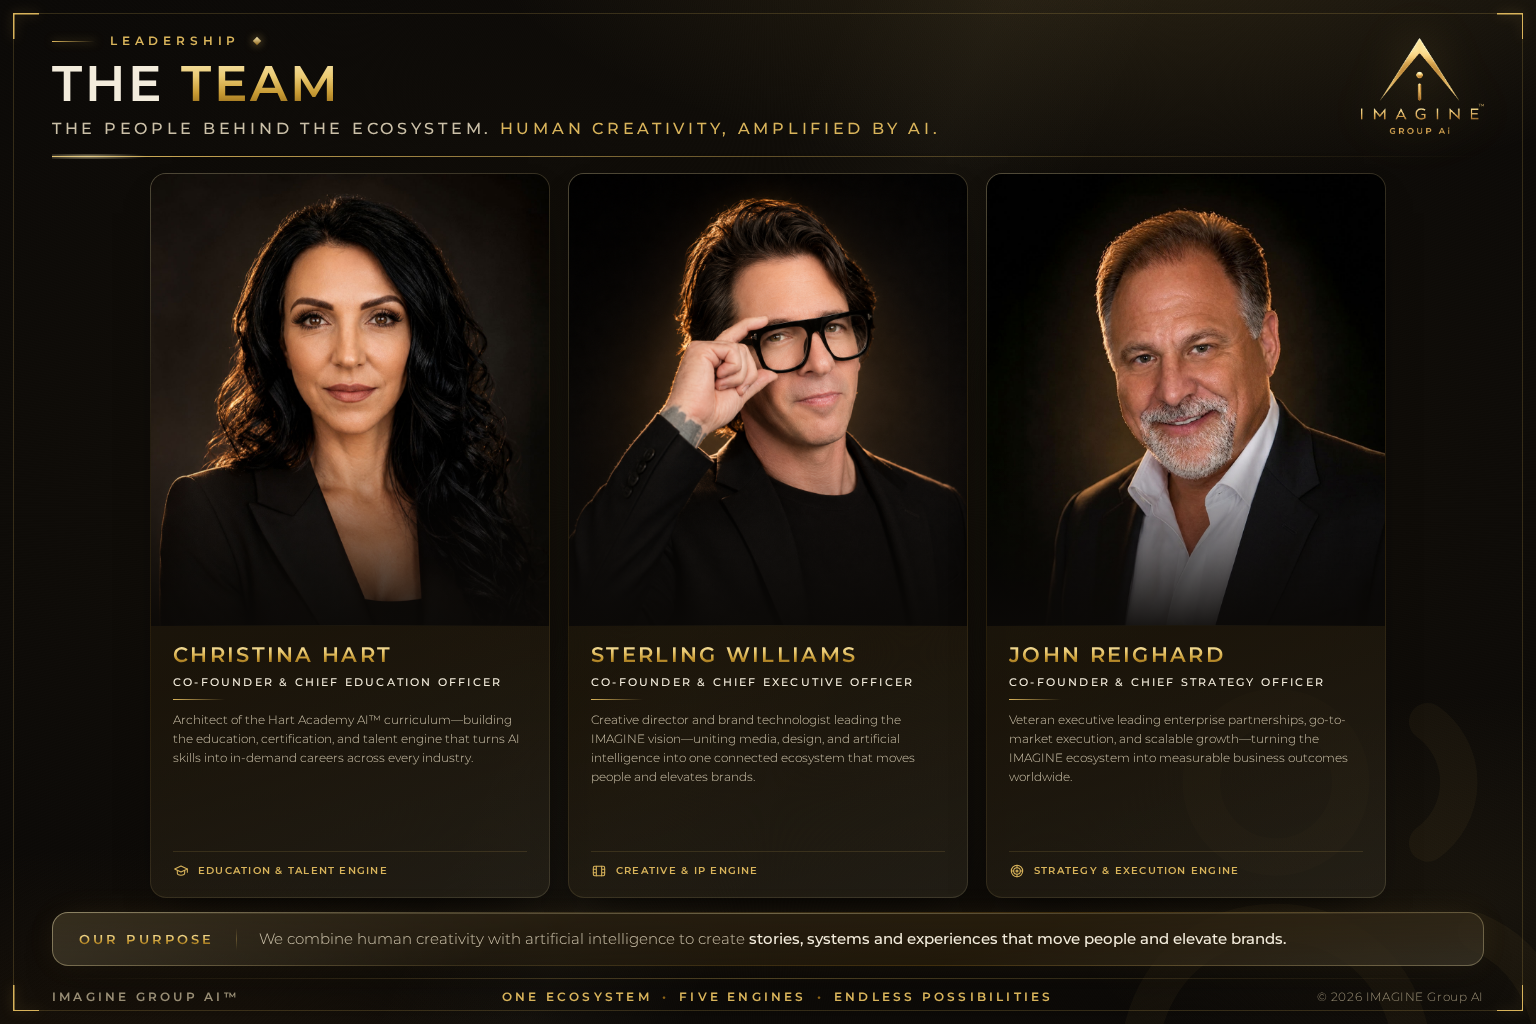
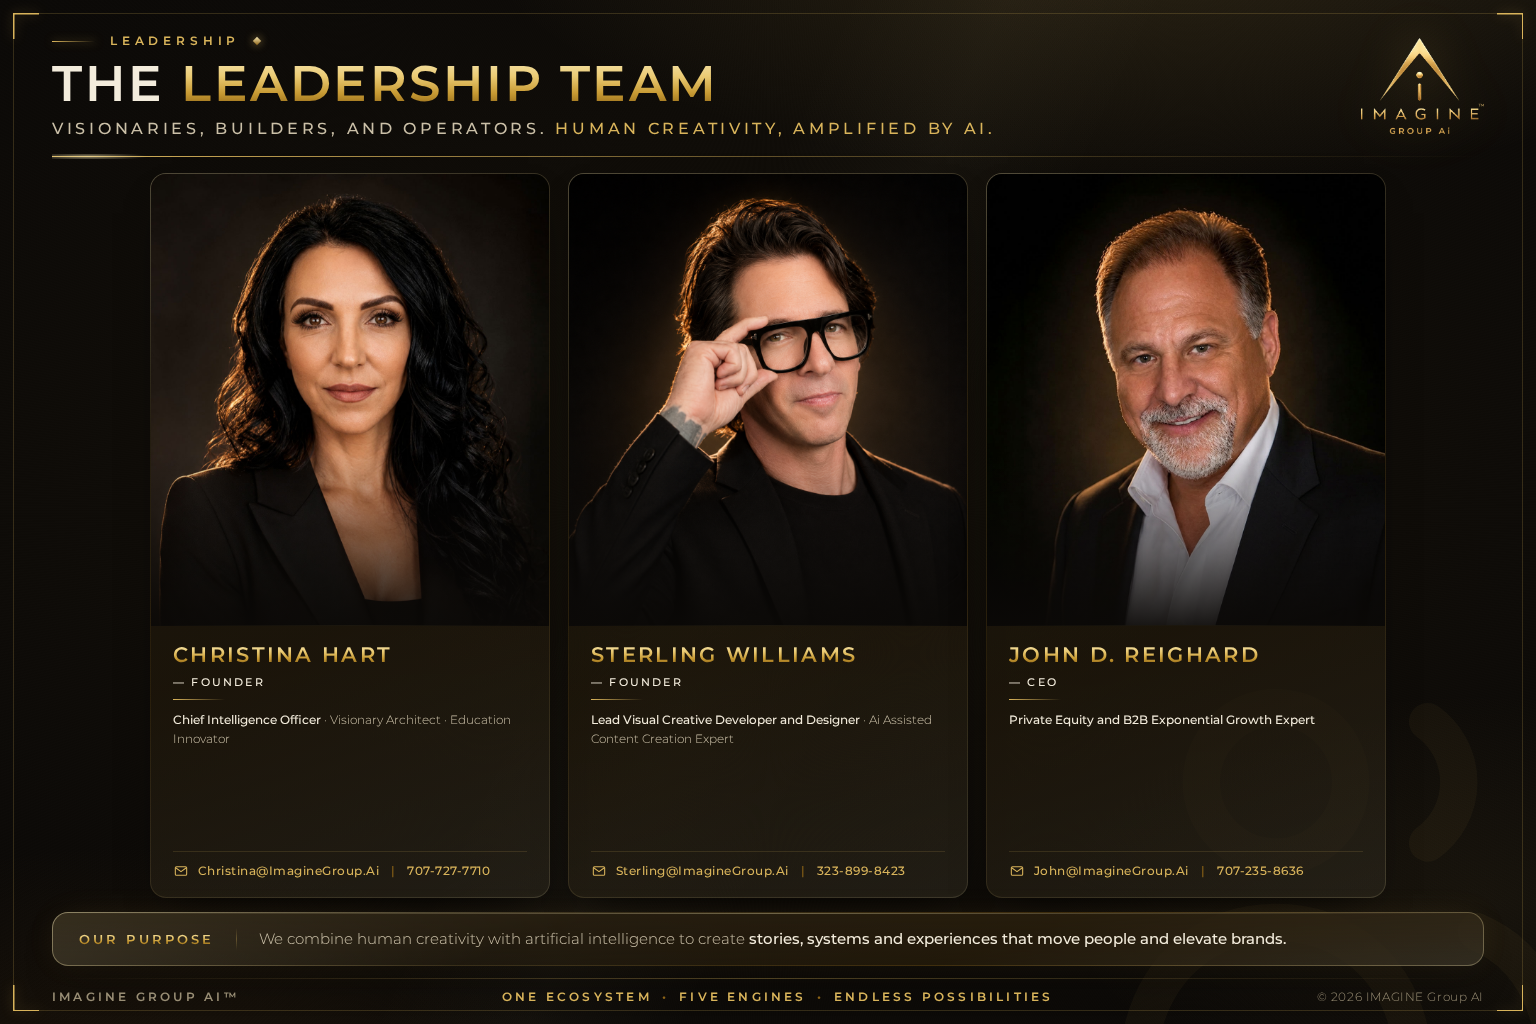
Team page: real titles, descriptors, and contact info from reference image
Christina Hart (Founder), Sterling Williams (Founder), John D. Reighard
(CEO) with emails and phone numbers, applied to both the deck page and
the one-page site; header updated to 'The Leadership Team'.

Claude-Session: https://claude.ai/code/session_01EYoait4sW9uiXTPs3zUfhr

diff --git a/deck/slide-07-the-team.html b/deck/slide-07-the-team.html
@@ -20,8 +20,10 @@ main{ gap:14px; padding-top:16px; }
 .mbio{ font-weight:300; font-size:12.3px; color:var(--cream-dim); line-height:1.55; }
 .mtag{ margin-top:auto; padding-top:11px; border-top:1px solid var(--line-soft);
   display:flex; align-items:center; gap:9px;
-  font-weight:600; font-size:10.3px; letter-spacing:.12em; text-transform:uppercase; color:var(--gold); }
+  font-weight:500; font-size:12px; letter-spacing:.04em; color:var(--gold); }
 .mtag svg{ width:16px; height:16px; flex:0 0 auto; }
+.mtag i{ font-style:normal; color:var(--gold-deep); padding:0 3px; }
+.mbio b{ font-weight:500; color:var(--cream); }
 .purpose{ display:flex; align-items:center; gap:22px; padding:15px 26px; }
 .purpose .lbl{ font-weight:600; font-size:13px; letter-spacing:.24em; text-transform:uppercase; white-space:nowrap; }
 .purpose .sep{ width:1px; align-self:stretch; background:linear-gradient(180deg,transparent,var(--line),transparent); }
@@ -36,8 +38,8 @@ main{ gap:14px; padding-top:16px; }
   <header class="slide">
     <div class="titles">
       <div class="eyebrow">Leadership</div>
-      <h1>The <span class="gtx">Team</span></h1>
-      <div class="kicker">The people behind the ecosystem. <b>Human creativity, amplified by AI.</b></div>
+      <h1>The <span class="gtx">Leadership Team</span></h1>
+      <div class="kicker">Visionaries, Builders, and Operators. <b>Human creativity, amplified by AI.</b></div>
     </div>
     <div class="brandmark"><img src="../IMAGINE-group-ai-logo-Gold-TM-NEW.png" alt="IMAGINE Group AI"></div>
   </header>
@@ -52,12 +54,10 @@ main{ gap:14px; padding-top:16px; }
         </div>
         <div class="minfo">
           <div class="mname gtx">Christina Hart</div>
-          <div class="mrole">Co-Founder &amp; Chief Education Officer</div>
+          <div class="mrole">&mdash; Founder</div>
           <div class="mdiv"></div>
-          <div class="mbio">Architect of the Hart Academy AI&trade; curriculum&mdash;building the education,
-            certification, and talent engine that turns AI skills into in-demand careers across
-            every industry.</div>
-          <div class="mtag"><svg><use href="#i-grad"/></svg>Education &amp; Talent Engine</div>
+          <div class="mbio"><b>Chief Intelligence Officer</b> &middot; Visionary Architect &middot; Education Innovator</div>
+          <div class="mtag"><svg><use href="#i-mail"/></svg>Christina@ImagineGroup.Ai<i>|</i>707-727-7710</div>
         </div>
       </div>
 
@@ -68,12 +68,10 @@ main{ gap:14px; padding-top:16px; }
         </div>
         <div class="minfo">
           <div class="mname gtx">Sterling Williams</div>
-          <div class="mrole">Co-Founder &amp; Chief Executive Officer</div>
+          <div class="mrole">&mdash; Founder</div>
           <div class="mdiv"></div>
-          <div class="mbio">Creative director and brand technologist leading the IMAGINE vision&mdash;uniting
-            media, design, and artificial intelligence into one connected ecosystem that moves people
-            and elevates brands.</div>
-          <div class="mtag"><svg><use href="#i-film"/></svg>Creative &amp; IP Engine</div>
+          <div class="mbio"><b>Lead Visual Creative Developer and Designer</b> &middot; Ai Assisted Content Creation Expert</div>
+          <div class="mtag"><svg><use href="#i-mail"/></svg>Sterling@ImagineGroup.Ai<i>|</i>323-899-8423</div>
         </div>
       </div>
 
@@ -83,13 +81,11 @@ main{ gap:14px; padding-top:16px; }
           <div class="goldline"></div>
         </div>
         <div class="minfo">
-          <div class="mname gtx">John Reighard</div>
-          <div class="mrole">Co-Founder &amp; Chief Strategy Officer</div>
+          <div class="mname gtx">John D. Reighard</div>
+          <div class="mrole">&mdash; CEO</div>
           <div class="mdiv"></div>
-          <div class="mbio">Veteran executive leading enterprise partnerships, go-to-market execution,
-            and scalable growth&mdash;turning the IMAGINE ecosystem into measurable business
-            outcomes worldwide.</div>
-          <div class="mtag"><svg><use href="#i-target"/></svg>Strategy &amp; Execution Engine</div>
+          <div class="mbio"><b>Private Equity and B2B Exponential Growth Expert</b></div>
+          <div class="mtag"><svg><use href="#i-mail"/></svg>John@ImagineGroup.Ai<i>|</i>707-235-8636</div>
         </div>
       </div>
     </div>

diff --git a/deck/imagine-onepage.html b/deck/imagine-onepage.html
@@ -505,41 +505,38 @@ footer .c{font-weight:300;font-size:11.5px;color:var(--muted)}
 <section id="team">
   <div class="sechead rv">
     <div class="eyebrow">Leadership</div>
-    <h2>The <span class="gtx">Team</span></h2>
-    <div class="kick">The people behind the ecosystem. <b>Human creativity, amplified by AI.</b></div>
+    <h2>The <span class="gtx">Leadership Team</span></h2>
+    <div class="kick">Visionaries, Builders, and Operators. <b>Human creativity, amplified by AI.</b></div>
   </div>
   <div class="grid g3">
     <div class="card member rv">
       <div class="photo"><img src="../IMAGINE-Group-Ai-christina-hart.jpg" alt="Christina Hart"></div>
       <div class="info">
         <div class="mname gtx">Christina Hart</div>
-        <div class="mrole">Co-Founder &amp; Chief Education Officer</div>
+        <div class="mrole">&mdash; Founder</div>
         <div class="mdiv"></div>
-        <div class="mbio">Architect of the Hart Academy AI&trade; curriculum&mdash;building the education, certification, and talent engine
-          that turns AI skills into in-demand careers across every industry.</div>
-        <div class="etag" style="justify-content:flex-start"><svg><use href="#i-grad"/></svg>Education &amp; Talent Engine</div>
+        <div class="mbio"><b>Chief Intelligence Officer</b> &middot; Visionary Architect &middot; Education Innovator</div>
+        <div class="etag" style="justify-content:flex-start;text-transform:none;letter-spacing:.04em;font-size:12px;font-weight:500"><svg><use href="#i-mail"/></svg>Christina@ImagineGroup.Ai&nbsp;&nbsp;|&nbsp;&nbsp;707-727-7710</div>
       </div>
     </div>
     <div class="card member rv d1">
       <div class="photo"><img src="../IMAGINE Group Ai Team sterling-williams.png" alt="Sterling Williams"></div>
       <div class="info">
         <div class="mname gtx">Sterling Williams</div>
-        <div class="mrole">Co-Founder &amp; Chief Executive Officer</div>
+        <div class="mrole">&mdash; Founder</div>
         <div class="mdiv"></div>
-        <div class="mbio">Creative director and brand technologist leading the IMAGINE vision&mdash;uniting media, design, and artificial
-          intelligence into one connected ecosystem that moves people and elevates brands.</div>
-        <div class="etag" style="justify-content:flex-start"><svg><use href="#i-film"/></svg>Creative &amp; IP Engine</div>
+        <div class="mbio"><b>Lead Visual Creative Developer and Designer</b> &middot; Ai Assisted Content Creation Expert</div>
+        <div class="etag" style="justify-content:flex-start;text-transform:none;letter-spacing:.04em;font-size:12px;font-weight:500"><svg><use href="#i-mail"/></svg>Sterling@ImagineGroup.Ai&nbsp;&nbsp;|&nbsp;&nbsp;323-899-8423</div>
       </div>
     </div>
     <div class="card member rv d2">
       <div class="photo"><img src="../Joh-Reinguard-linkedin-profile-pic-blk-blazer.jpg" alt="John Reighard"></div>
       <div class="info">
-        <div class="mname gtx">John Reighard</div>
-        <div class="mrole">Co-Founder &amp; Chief Strategy Officer</div>
+        <div class="mname gtx">John D. Reighard</div>
+        <div class="mrole">&mdash; CEO</div>
         <div class="mdiv"></div>
-        <div class="mbio">Veteran executive leading enterprise partnerships, go-to-market execution, and scalable growth&mdash;turning
-          the IMAGINE ecosystem into measurable business outcomes worldwide.</div>
-        <div class="etag" style="justify-content:flex-start"><svg><use href="#i-target"/></svg>Strategy &amp; Execution Engine</div>
+        <div class="mbio"><b>Private Equity and B2B Exponential Growth Expert</b></div>
+        <div class="etag" style="justify-content:flex-start;text-transform:none;letter-spacing:.04em;font-size:12px;font-weight:500"><svg><use href="#i-mail"/></svg>John@ImagineGroup.Ai&nbsp;&nbsp;|&nbsp;&nbsp;707-235-8636</div>
       </div>
     </div>
   </div>
